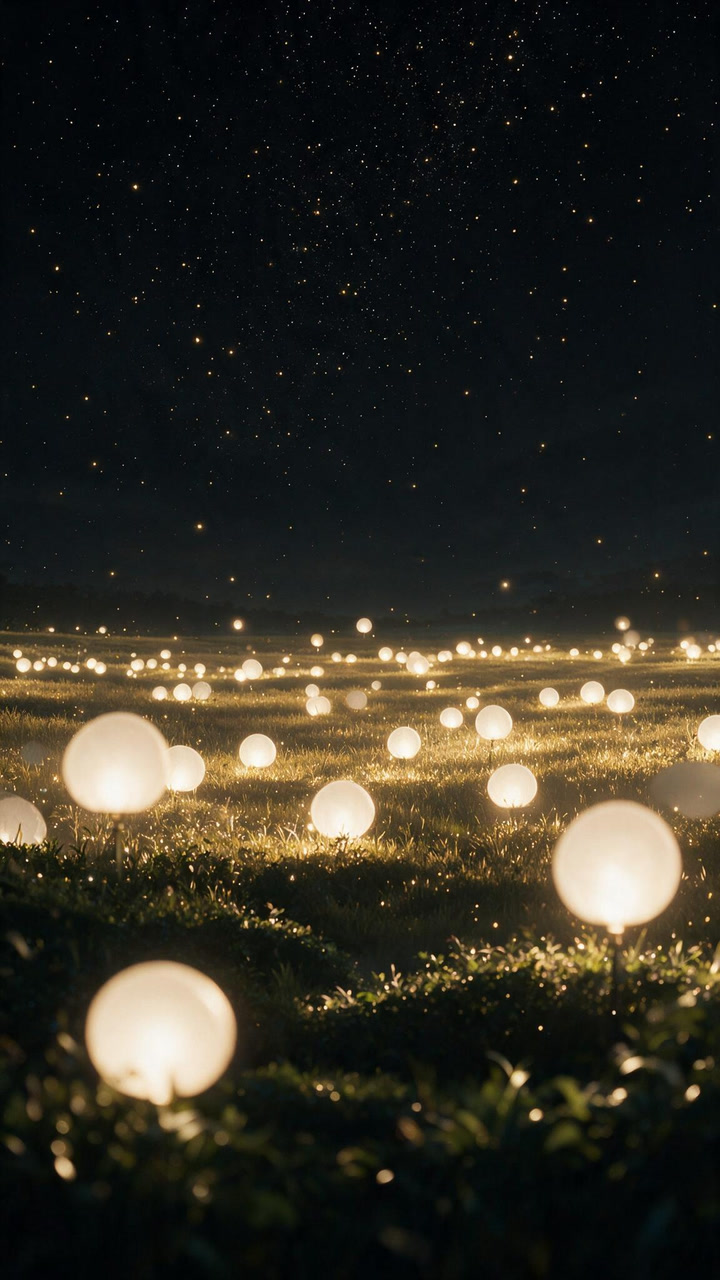
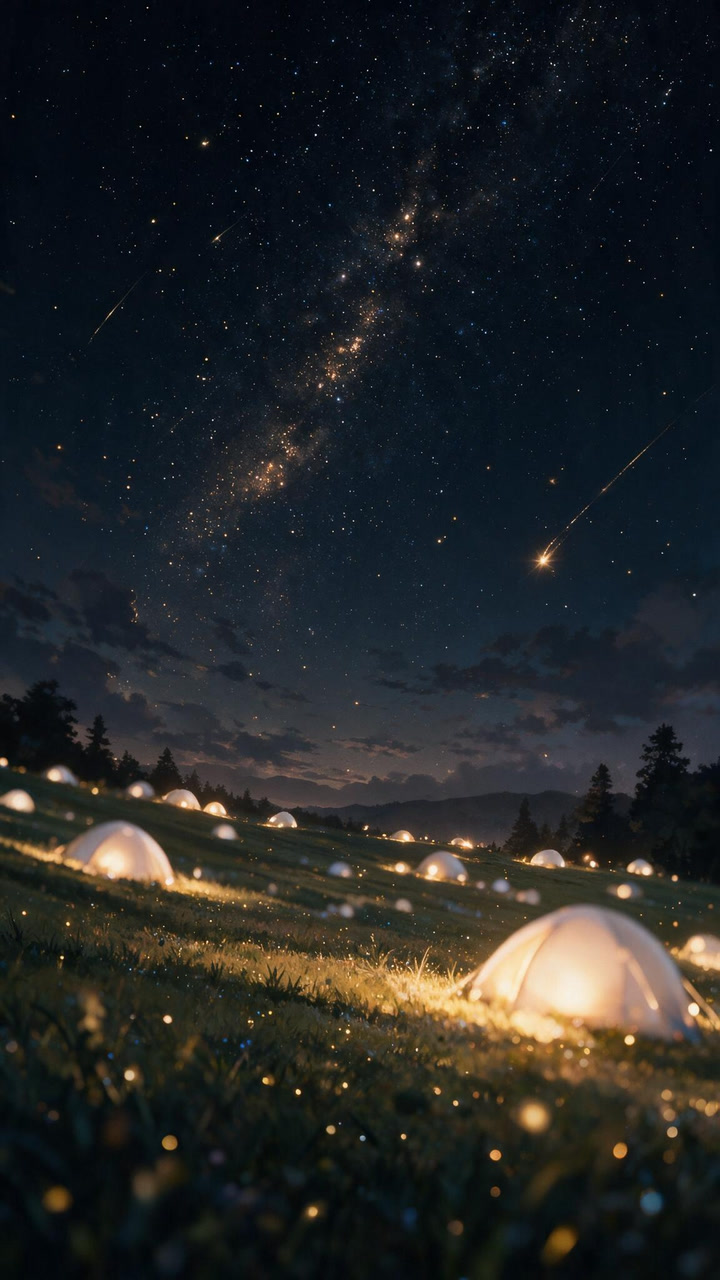
UI art: new pictures [skip ci]

diff --git a/apps/web/public/onboarding/s/last-run.md b/apps/web/public/onboarding/s/last-run.md
@@ -1,19 +1,9 @@
-# UI art — 2026-10-25T07:29:49.622Z
+# UI art — 2026-10-25T07:45:52.898Z
 
-Seedream 5.0 Pro / 15枚 / 約31円
+Seedream 5.0 Pro / 5枚 / 約16円
 
-- ✅ sig-earth-threads
-- ✅ sig-f2-gate
-- ✅ sig-f4-turntable
 - ✅ sig-f5-tents
-- ✅ sig-hand
-- ✅ sig-space-anime
-- ✅ sig-w1-snow
-- ✅ sig-w2-desert
-- ✅ sig-w3-sea
-- ✅ sig-w4-city
-- ✅ sig-w5-mountain
-- ✅ sig-w6-canal
 - ✅ sig-window
 - ❌ sig-f1-ring: Error: 504 [{"code":"failedTaskTimeout","message":"Task processing timeout. Results were not received within the expected time window. Please try again later."}]
 - ❌ sig-f3-cards: Error: 504 [{"code":"failedTaskTimeout","message":"Task processing timeout. Results were not received within the expected time window. Please try again later."}]
+- ❌ sig-hand: Error: 504 [{"code":"failedTaskTimeout","message":"Task processing timeout. Results were not received within the expected time window. Please try again later."}]

diff --git a/apps/web/public/atelier/raw/last-run.md b/apps/web/public/atelier/raw/last-run.md
@@ -1,4 +1,4 @@
-# UI art — 2026-10-25T07:29:49.660Z
+# UI art — 2026-10-25T07:45:52.932Z
 
 Seedream 5.0 Pro / 0枚 / 約0円
 

diff --git a/apps/web/public/dj/art/last-run.md b/apps/web/public/dj/art/last-run.md
@@ -1,4 +1,4 @@
-# UI art — 2026-10-25T07:21:10.154Z
+# UI art — 2026-10-25T07:37:43.200Z
 
 Seedream 5.0 Pro / 0枚 / 約0円
 

diff --git a/apps/web/public/ui/parts/raw/last-run.md b/apps/web/public/ui/parts/raw/last-run.md
@@ -1,4 +1,4 @@
-# UI art — 2026-10-25T07:29:49.692Z
+# UI art — 2026-10-25T07:45:52.964Z
 
 Seedream 5.0 Pro / 0枚 / 約0円
 
